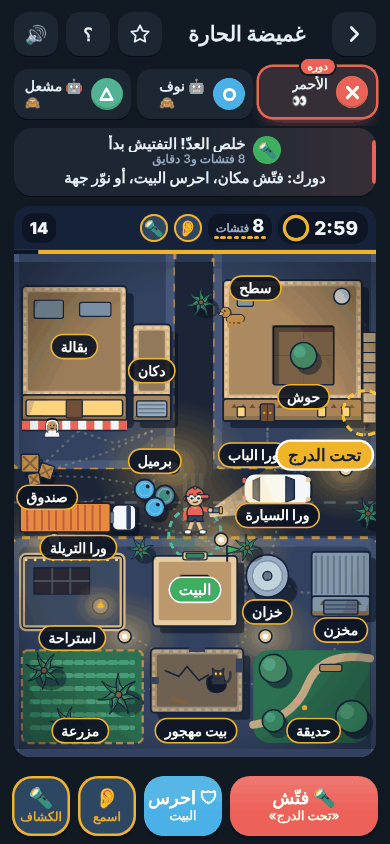
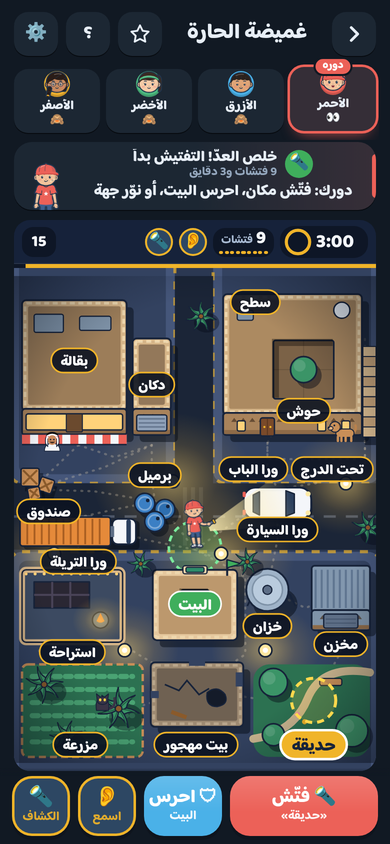
docs(cast): record the new cast trial and its logs
Claude-Session: https://claude.ai/code/session_01QnhkTV5pwWpgkKEhb3iPtA

diff --git a/docs/characters.md b/docs/characters.md
@@ -1,63 +1,82 @@
 # الشخصيات: «عيال الحارة»
 
-«عيال الحارة» ثمان عيال من الحارة، **واحد لكل لون لاعب**: حمود للأحمر، وسعود للأزرق، وهكذا بنفس ترتيب `COLS` في `core.js`. صاحب المشروع اعتمدهم («الشخصيات اعتمدها»)، وصاروا شخصيات التطبيق كله، مو بس ألعاب الحارة.
+«عيال الحارة» ثمان عيال من الحارة، **واحد لكل لون لاعب**: حمود للأحمر، وسعود للأزرق، وهكذا بنفس ترتيب `COLS` في `core.js`. صاحب المشروع اعتمدهم أول مرة («الشخصيات اعتمدها»)، وصاروا شخصيات التطبيق كله، مو بس ألعاب الحارة.
 
-![الشخصيات الثمان بكل الوضعيات، وتحتهم الملابس والوجوه](img/cast.png)
+**2026-11-24: رسمة جديدة للتجربة.** صاحب المشروع وافق يجرّب الرسمة الجديدة في التطبيق: «طبقه خلني اجربه» ([decisions.md](decisions.md)). نفس العيال ونفس الأسماء والألوان والطباع، بس:
 
-*في الصورة: كل صف شخصية بوضعياتها (واقف، يمشي، يطل، يهلل، انمسك، زعلان، يفكر، يعدّ، بالكشاف). وتحت: أمثلة على الملابس (مريول وطاقية طبخ، طقم رياضة وكورة، موزّع ورق، ثوب وقفاز صقّار)، والوجوه الدائرية للصور.*
+- **الجسم:** هيكل عظمي (كتف، كوع، رسغ، ورك، ركبة، كاحل) يحرّك أطراف متصلة مرسومة كخط واحد، والطول تقريبًا 3 رووس.
+- **الوجه:** عيون صغيرة غامقة ونازلة شوي، **والحواجب هي اللي تبيّن المزاج**.
+- **بدون غترة ولا شماغ ولا حجاب** في الشكل الأساسي (طاقية الطبخ والكاب وغيرها تبقى لبس للألعاب):
+  - نورة: ذيل حصان وطوق أخضر.
+  - لولوة: شعر مموّج وبكلة وردة.
+  - سعود: شعر قصير بغرّة.
+  - ناصر: شعر مرفوع (quiff).
+
+![الشخصيات الثمان بالرسمة الجديدة: كل صف شخصية بوضعياتها، وتحتهم الملابس والوجوه](img/cast.png)
+
+*في الصورة: كل صف شخصية بوضعياتها (واقف، يمشي، يطل، يهلل، انمسك، زعلان، يفكر، يعدّ، بالكشاف، يأشّر، وقعدات الطاقية). وتحت: الملابس العشر، والوجوه الدائرية بالأمزجة.*
 
 ## الثمانية
 
 | # | الاسم | اللون | البشرة | الشكل | الطبع |
 |---|---|---|---|---|---|
-| 0 | **حمود** (ولد) | أحمر `#EC6158` | `#F2C29B` | كاب أحمر للأمام، خصلات شعر، حاجب مرفوع بشقاوة | شقي وسريع |
-| 1 | **سعود** (ولد) | أزرق `#4AB1E8` | `#E0A577` | غترة بيضاء على الراس والكتوف، عيون نص مسكّرة هادية | هادي ويفكر |
-| 2 | **نورة** (بنت) | أخضر `#4CB97F` | `#F5CBA7` | حجاب أخضر حول وجه مدوّر، رموش | ذكية وتلاحظ كل شي |
-| 3 | **سارة** (بنت) | أصفر `#EDB02F` | `#C98A5E` | شعر غامق بضفيرة على جنب، نظارة مدوّرة، ربطة شعر صفراء | تحب الألغاز |
-| 4 | **ريم** (بنت) | بنفسجي `#9C7BD6` | `#F2C29B` | ذيلين شعر بفيونكات بنفسجية، نمش | نشيطة وما تهدى |
-| 5 | **بدر** (ولد) | برتقالي `#F2874B` | `#D99A6C` | طاقية بيضاء محبوكة، وجه مليان ضحوك | ضحوك |
-| 6 | **لولوة** (بنت) | وردي `#E57AAE` | `#E8B48C` | حجاب وردي فيه وردة بيضاء صغيرة | لطيفة وشجاعة |
-| 7 | **ناصر** (ولد) | فيروزي `#2FB3AA` | `#B07750` | شماغ أحمر وأبيض، حواجب ثابتة | واثق وهادي |
+| 0 | **حمود** (ولد) | أحمر `#EC6158` | `#F2C29B` | كاب أحمر، لزقة على خده، تيشيرت بنجمة وشورت، حاجب مرفوع بشقاوة | شقي وسريع |
+| 1 | **سعود** (ولد) | أزرق `#4AB1E8` | `#E0A577` | شعر قصير بغرّة، ثوب أبيض وصديري أزرق، عيون نص مسكّرة هادية | هادي ويفكر |
+| 2 | **نورة** (بنت) | أخضر `#4CB97F` | `#F5CBA7` | ذيل حصان وطوق أخضر، بلوزة طويلة وبنطلون، رموش | ذكية وتلاحظ كل شي |
+| 3 | **سارة** (بنت) | أصفر `#EDB02F` | `#C98A5E` | شعر غامق بضفيرة على جنب، نظارة مدوّرة، تنورة | تحب الألغاز |
+| 4 | **ريم** (بنت) | بنفسجي `#9C7BD6` | `#F2C29B` | ذيلين شعر بفيونكات بنفسجية، نمش، أصغر شوي | نشيطة وما تهدى |
+| 5 | **بدر** (ولد) | برتقالي `#F2874B` | `#D99A6C` | طاقية بيضاء محبوكة، وجه مليان ضحوك، غمّازة | ضحوك |
+| 6 | **لولوة** (بنت) | وردي `#E57AAE` | `#E8B48C` | شعر مموّج لكتوفها وبكلة وردة بيضاء، فستان | لطيفة وشجاعة |
+| 7 | **ناصر** (ولد) | فيروزي `#2FB3AA` | `#B07750` | شعر مرفوع بفرق جانبي، ثوب وصديري فيروزي، حواجب ثابتة | واثق وهادي |
 
-4 عيال و4 بنات، ولكل واحد لون بشرة ووجه وطبع خاص فيه. البيانات في `KH.CAST[i]`: `{n, g, c, skin, m, t}` (الاسم، ولد أو بنت، اللون، البشرة، الفم الافتراضي، الطبع).
+4 عيال و4 بنات، ولكل واحد لون بشرة ووجه وطبع خاص فيه. البيانات في `KH.CAST[i]`: `{n, g, c, skin, m, t}` (الاسم، ولد أو بنت، اللون، البشرة، المزاج الافتراضي، الطبع)، ومعها شكل الرسمة (`hair` الشعر، `top` و`low` اللبس، `shoe`...).
 
 ## الرسم
 
-- **المكونات:** الشخصية `<g>` فيها 3 إلى 6 `<use>` (تقريبًا 300 بايت). كل `<use>` قطعة:
-  - جسم بوضعية: القميص بلون `--kc`، والجلد بلون `--ks`؛
-  - طبقة لبس فوقه؛
-  - الراس الخاص فيه (اللبس والشعر والعيون)؛
-  - فم حسب المزاج؛
-  - إكسسوار.
-- **الأسلوب:** حد كحلي `#17233A`، وتعبئة مسطّحة، وظل بيضاوي تحت الرجلين.
-- **القوالب** تنحط بالصفحة مرة وحدة (`KH.ensureDefs()`) وترجع لحالها إذا انمسحت. لذلك 8 لاعبين على الشاشة ما يكلفون شي تقريبًا.
+- **الهيكل:** وحدة الرسم «وحدة الرِّغ»: الأرض عند y = 0، ونص الراس عند 0,-109، والطفل تقريبًا 135 طول. الوضعية زوايا: الكتف والكوع لكل يد، والورك والركبة لكل رجل، وميلان الراس والجسم. بعض الوضعيات تنحسب من مكان الرسغ (حل عكسي للذراع)، عشان تجي اليد على الذقن أو العيون أو الراس بالضبط.
+- **الأطراف:** كل يد ورجل شكل واحد مستدق يمشي على منحنى من الكتف للرسغ (أو من الورك للكاحل). الكم والبنطلون يتلبسون فوقه.
+- **الحد:** كل شي ينرسم مرتين: مرة كحلي بخط عريض (`kr-bo`) ومرة بالألوان. فالأجزاء تذوب في بعض بدون فواصل، والحد الكحلي `#22374F` يحيط الشكل كله.
+- **المقاس في اللعبة:** الرسمة تنعرض بـ0.43 من وحدة الرِّغ، فالطفل الواقف في SVG اللعبة بنفس طوله القديم تقريبًا (الأرض عند 0,0، ونص الراس قرب 0,-47)، ونفس `x` و`y` و`s` اللي تستخدمها الألعاب.
+- **صور مو قطع:** كل «شكل» (طفل بوضعية ومزاج ولبس ولون) ينرسم **مرة وحدة** صورة SVG:
+  - في شاشات التطبيق (`KH.faceImg` و`KH.kidImg`): قاعدة CSS لكل شكل، والعنصر في الصفحة واحد وبدون SVG داخله، مثل قبل.
+  - داخل SVG اللعبة (`KH.kid` و`KH.face` و`KH.sit`): `<image>` واحد للشكل في `<defs>` مخفي، وكل طفل على الشاشة `<use>` واحد له. نفس الـmarkup في كل رسم، فما فيه شي يعيده المحرك.
+- **الأداء** (قياس 2026-11-24، معالج مبطّأ 4×): عدد عناصر الصفحة نزل (الرئيسية 1213 بدل 1453، و«خمّن المهنة» 1669 بدل 2215). كل شكل جديد يكلّف تقريبًا 0.6ms مرة وحدة، وصورته 13 إلى 16 كيلوبايت بدل 5 تقريبًا. وإعادة الرسم ما تغيّرت.
 
 ### الوضعيات (`pose`)
 
 | الوضعية | الوصف | المزاج الافتراضي |
 |---|---|---|
-| `stand` | واقف | فم الشخصية |
-| `walk` | يمشي | فم الشخصية |
-| `peek` | راس ويدين يطلّون من ورا شي | فم الشخصية |
-| `cheer` | يدينه فوق يهلل | `g` (ضحكة) |
+| `stand` | واقف | مزاج الشخصية |
+| `walk` | يمشي (خطوة، ويد قدّام ويد ورا) | مزاج الشخصية |
+| `peek` | راس ويدين يمسكون الحافة | مزاج الشخصية |
+| `cheer` | يدينه فوق يهلل | `g` بعيون مسكّرة من الفرحة |
 | `caught` | يدينه على راسه: انمسك | `o` (مفجوع) |
-| `sad` | زعلان | `sad` |
-| `think` | يد على الذقن | `hm` |
-| `count` | مغمّض بيدينه يعدّ | `s` |
-| `torch` | ماسك كشاف | فم الشخصية |
+| `sad` | زعلان، راسه مايل | `sad` |
+| `think` | يده على ذقنه وعيونه فوق | `hm` |
+| `count` | يدينه على عيونه يعدّ | `s` |
+| `torch` | ماسك كشاف قدّامه | مزاج الشخصية |
+| `wave` | يأشّر بيده | `g` |
+| `hold` | ماسك شي بيده قدّامه | مزاج الشخصية |
 
-وضعيات القعدة (أضافتها «طاق طاق طاقية»، `KH.sit`): `sit` متربّع، و`situp` يد فوق، و`sitcheer` اليدين فوق، و`sitlook` يلتفت ويده على راسه.
+وضعيات القعدة (`KH.sit`، أو `pose` مباشرة): `sit` متربّع ويدينه على ركبه، و`situp` يد فوق، و`sitcheer` اليدين فوق، و`sitlook` يلتفت ويده على راسه.
 
-### المزاج (`mood`، الفم)
+### المزاج (`mood`)
 
-`s` ابتسامة، و`g` ضحكة، و`o` مفجوع، و`sad` زعلان، و`k` شقاوة، و`hm` يفكر.
+الحواجب والعيون والفم مع بعض: `s` و`k` ابتسامة الشخصية (حمود بشقاوة)، و`g` فرحان (عيون مفتوحة وفم مفتوح)، و`o` مفجوع (حواجب فوق وفم مدوّر)، و`sad` زعلان (حواجب مايلة ودمعة)، و`hm` يفكر (حاجب فوق والعيون لجنب). ولما يهلل: عيون مسكّرة من الفرحة.
 
 ### الملابس (`outfit`) والإكسسوارات (`acc`)
 
+اللبس صار **لبس على الجسم** مو ملصق: كل لبس يحدد نوع القطعة اللي فوق والقطعة اللي تحت، وألوانها، وتفاصيل على القميص، وقطع فوق الجسم:
+
 | النوع | المتوفر |
 |---|---|
-| ملابس | `apron` مريول، `sport` طقم رياضة رقم 10، `dealer` صدرية موزّع ورق مع ببيونة، `thobe` ثوب |
-| إكسسوارات | `glove` قفاز صقّار، `ball` كورة، `cards` ورق باليد، `chefhat` طاقية طبخ |
+| ملابس | `apron` مريول، `sport` طقم رياضة رقم 10، `dealer` صديري موزّع ورق مع ببيونة، `thobe` ثوب (للبنات بلوزة بيضاء طويلة)، `host` جاكيت مقدّم، `coat` معطف المحقق، `gi` بدلة كاراتيه بحزام أسود، `lab` معطف مختبر مفتوح، `smock` مريلة رسّام بنقط ألوان، `sailor` ياقة بحّار |
+| باليد (`h`) | `mic`، `pawn`، `crownp`، `dice`، `rod`، `pencil`، `brush`، `book`، `lens`، `sword`، `watch`، `gavel`، `flag`، `balloon`، `bow`، `dart`، `cue`، `club`، `bball`، `bowl`، `oar`، `tile`، `piece`، `trophy`، `letter`، `coin`، `dallah`، `spoon`، `buzzer`، `cards`، `glove` (قفاز صقّار عليه الصقر) |
+| على الراس (`H`) | `chefhat`، `crown`، `fedora`، `bulb`، `helmet` |
+| جنب الرجل (`b`) | `ball` |
+
+- الواقف اللي ماسك شي يرفع يده قدّامه (`hold`). والمفكّر يمسكه باليد الثانية.
+- الإكسسوار الواحد ممكن يكون فيه أكثر من مكان، مثل طاقية الطبّاخ والملعقة (`{H, h}`).
 
 ### شخصيات ثانية (`KH.sprite`)
 
@@ -68,13 +87,15 @@
 - `dog`: الكلب.
 - `grocer`: أبو سعد صاحب البقالة.
 
+(هذي ما تغيّرت مع الرسمة الجديدة.)
+
 ### الطاقية (`KH.cap`)
 
 `cap` بيضاء محبوكة، و`gold` ذهبية، و`fake` خرقة مرقّعة.
 
 ## الاستخدام في الألعاب (API)
 
-الكود كله في `public/js/kit-hara.js` تحت متغير واحد `KH`، وتنسيقه في `public/css/kit-hara.css`.
+الكود كله في `public/js/kit-hara.js` تحت متغير واحد `KH`، وتنسيقه في `public/css/kit-hara.css`. **الـAPI ما تغيّر مع الرسمة الجديدة.**
 
 ```js
 // شخصية داخل <svg> اللعبة: who = رقم اللون (0..7)، وفي اللعبة غالبًا d.pl[s]
@@ -93,14 +114,22 @@ KH.cap(x, y, 'gold', 1);
 // فقاعة كلام ونجمة «لقيتك!»
 KH.say(x, y, 'أربعة…', {fs: 13});
 KH.burst(x, y, 'لقيتك!');
+
+// لبس وإكسسوار للعبة (مفاتيح بإسم اللعبة). KH.cloth فيه أدوات رسم القماش على الجسم
+const {cl, ln, mir} = KH.cloth;
+KH.extend({
+  outfit: {'job-chef': {k: {top: 'long'}, v: '--sl:#FAFBFD', over: cl('M-12.6 -79L12.6 -79L14 -31Q0 -27.6 -14 -31Z', '#fff')}},
+  acc: {'job-chefH': {H: '<path …/>', h: '<path …/>'}}
+});
 ```
 
 | الدالة | وش ترجع |
 |---|---|
-| `KH.kid(o)` | `<g>` للشخصية. `o`: `who` أو `seat` أو `c` (لون)، `pose`، `mood`، `outfit`، `acc`، `s` (الحجم)، `flip`، `x`، `y` |
-| `KH.face(o)` | `<svg>` دائري صغير. `o`: `who`، `size`، `ring` (دائرة بلون اللاعب)، `bg`، `mood` |
-| `KH.sit(o)` | شخصية قاعدة متربّعة (الراس عند 0,-33) |
+| `KH.kid(o)` | `<use>` للشخصية. `o`: `who` أو `seat` أو `c` (لون)، `pose`، `mood`، `outfit`، `acc`، `hat`، `s` (الحجم)، `flip`، `x`، `y` |
+| `KH.face(o)` | `<svg>` دائري صغير. `o`: `who`، `size`، `ring` (دائرة بلون اللاعب، ويبين فيها الكتوف)، `bg`، `mood`، `hat` |
+| `KH.sit(o)` | شخصية قاعدة متربّعة (الراس قرب 0,-32) |
 | `KH.sprite(pose,x,y,o)` | الشخصيات الثانية، أو أي وضعية من وضعيات العيال |
+| `KH.extend({outfit, acc})` | لبس وإكسسوارات للعبة. اللبس: `k` (نوع `top`: `tee` أو `long` أو `vest`، و`low`: `shorts` أو `pants` أو `skirt` أو `thobe`)، و`v` (ألوان: `--kc` القميص، `--kd` ظله، `--sl` الكم، `--lo` البنطلون أو الثوب)، و`deco` (على القميص)، و`over` (فوق الجسم). الإكسسوار: `h` باليد، و`H` على الراس، و`o` على الصدر، و`b` جنب الجسم. كلها بوحدة الرِّغ إلا `h` و`H` و`b` بمقاس الطفل القديم |
 | `KH.cap(x,y,kind,s)` | الطاقية |
 | `KH.say` و`KH.burst` و`KH.beam` | فقاعة كلام، ونجمة، وضوء الكشاف |
 | `KH.walk(el,pts,o)` | يمشّي عنصر على نقاط بـ `transform` بس: 150 إلى 250ms للمقطع، و1.2 ثانية كحد أقصى، و450ms في الوضع الخفيف، وما فيه مشي مع «تقليل الحركة». `o.step()` ينادى عند كل نقطة (صوت خطوات) |
@@ -124,7 +153,8 @@ KH.burst(x, y, 'لقيتك!');
 | المكان | الحالة |
 |---|---|
 | «غميضة الحارة» (`n-hide.js`) | كل لاعب شخصيته: يمشي على الممرات، ويطل من مخباه، والغمّاض يعدّ ويمشي بالكشاف. وفيها القطو والكلب وأبو سعد والأم |
-| «طاق طاق طاقية» (`n-taqiya.js`) | العيال قاعدين بدائرة في الحوش |
-| باقي التطبيق (شريط اللاعبين، الغرفة، النتائج، باقي الألعاب) | قيد التعميم (انظر [roadmap.md](roadmap.md)) |
+| «طاق طاق طاقية» (`n-taqiya.js`) | العيال قاعدين بدائرة في الحوش، واللي يلف يمشي حولهم |
+| «خمّن المهنة» (`n-guess.js`) | 33 مهنة: كل طفل بلبس شغله وأدواته (`job-*` بـ`KH.extend`) |
+| شاشات التطبيق (`core.js` و`cast-themes.js`) | الرئيسية (أربعة يطلّون فوق الأزرار)، وأيقونة كل قسم في قائمة الألعاب، وصور الغرفة واختيار الصورة، وشريط اللاعبين، وبطاقة الدور، و«دورك!»، وغطاء تمرير الجوال، والنتيجة والمنصة، والإحصائيات. كل لعبة تلبّسهم لبسها |
 
-![الغمّاض يختار وين يفتّش، بالداكن](img/hide-seeker-select-dark.png)
+![«غميضة الحارة» بالرسمة الجديدة، بالداكن](img/hide-seeker-select-dark.png)

diff --git a/docs/games/hide.md b/docs/games/hide.md
@@ -105,6 +105,7 @@
 
 | التاريخ | وش تغيّر | الكومت |
 |---|---|---|
+| 2026-11-24 | تجربة الرسمة الجديدة لـ«عيال الحارة» (بموافقة صاحب المشروع: «طبقه خلني اجربه»): جسم على هيكل عظمي بأطراف متصلة، وعيون صغيرة والحواجب تبيّن المزاج، وبدون غترة ولا شماغ ولا حجاب، ولبس المهن انرسم من جديد على الجسم | `486b5fd` |
 | 2026-11-15 | أسماء تنسيق خاصة بكل مجموعة ألعاب، وفحص يمنع التداخل | `99b50f8` |
 | 2026-11-15 | الشات والتفاعلات صارت بشريط ثابت تحت الشاشة ما يدخل على اللعبة، وتنبيه الرسائل الجديدة فوق زر الشات مباشرة، و«انسحب من اللعبة» انتقل لإعدادات اللعبة (⚙ بشريطها العلوي) | `f2e5506` |
 | 2026-11-14 | شارة أعرض لأبو سعد | `3e0925a` |
@@ -117,6 +118,7 @@
 
 ### من المحادثات (الأحدث أول)
 
+- **2026-11-24:** صاحب المشروع وافق يجرّب الرسمة الجديدة لـ«عيال الحارة»: «طبقه خلني اجربه». الخريطة والقوانين ما تغيّرت. الغمّاض صار يغطي عيونه بيدينه وهو يعدّ، ويمسك كشاف صغير قدّامه وهو يدوّر، والمتخبّي يطل براسه ويدينه ماسكة الحافة، واللي انمسك يحط يدينه على راسه بحواجب مرفوعة، واللي وصل البيت يهلل بعيون مسكّرة. التفاصيل في [characters.md](../characters.md).
 - **2026-11-15:** صاحب المشروع أرسل صور من اللعبة وقال: «حسن مكان الشات مكانها غير صحيح وداخل على اللعبه خلي مكانها ثابت ولا يدخل على اللعبه . والرسائل تظهر فوقه مباشره. وانسحب تكون في مكان إعدادات اللعبه مب وسط الشاشه». انصلحت لكل الألعاب (الكومت `f2e5506`، انظر القرارات).
 - **2026-11-14:** في فرز الأقسام انحسبت «ما تنفع أبدًا» على جوال واحد، وانشالت من «على نفس الجهاز».
 - **2026-11-14:** بعد ما شاف صور النسخة الثانية قال: «ارفعها»، وانرفعت على الموقع. وبعدها مباشرة: «و الشخصيات اعتمدها».
@@ -190,5 +192,5 @@
 
 - «لكل من ما استخدم ركضته فرصة» وقت نداء الأم ما انضافت: الركضة مرة وحدة أصلًا، والنداء بس يقصّر الخطوات.
 - على جوال 360×640 الخريطة تحتاج تمرير تحت شريط الأزرار الثابت (الأسماء تبقى 13 بكسل أو أكثر بدل ما تصغر).
-- وضعية «زعلان» أغلبها في الفم، مو في الجسم كله.
+- وضعية «زعلان» صارت في الجسم والوجه مع الرسمة الجديدة (الراس مايل، والحواجب، والدمعة). تنتظر رأي صاحب المشروع بعد التجربة.
 - `kit-hara.js` ينحمّل مع الألعاب بعد أول شاشة. إذا بتستخدم الشخصيات في شريط اللاعبين أو الغرفة، لازم ينتقل لأول السكربتات ([characters.md](../characters.md)).

diff --git a/docs/games/gs_job.md b/docs/games/gs_job.md
@@ -76,11 +76,13 @@
 
 | التاريخ | وش تغيّر | الكومت |
 |---|---|---|
+| 2026-11-24 | تجربة الرسمة الجديدة لـ«عيال الحارة» (بموافقة صاحب المشروع: «طبقه خلني اجربه»): جسم على هيكل عظمي بأطراف متصلة، وعيون صغيرة والحواجب تبيّن المزاج، وبدون غترة ولا شماغ ولا حجاب، ولبس المهن انرسم من جديد على الجسم | `486b5fd` |
 | 2026-11-15 | عائلة التخمين: عيال المهن صاروا أهدى، وبوت «الكل ضد واحد» يسأل بعدين يخمّن، وتصليحات في مشهد الجواب والأسماء | `9f505cd` |
 | 2026-11-15 | عائلة التخمين: محرك واحد لست ألعاب (الشخص، الحيوان، الدولة، المعلم، الأكلة، المهنة)، بتبويبات أسئلة ومشهد للجواب وشريط تاريخ، و«كل واحد سره» افتراضي | `c38c006` |
 <!-- auto:end history -->
 
 ### من المحادثات
+- **2026-11-24:** صاحب المشروع وافق يجرّب الرسمة الجديدة لـ«عيال الحارة»: «طبقه خلني اجربه». لبس المهن الـ33 انرسم من جديد على الجسم الجديد: المعاطف والمرايل والصدريات والبدل صارت قماش على الجسم (نوع القطعة ولونها وتفاصيلها)، والخوذ والكابات على الراس، والأدوات باليد، والكاميرا واللابتوب والسماعة على الصدر. الأسئلة وحقائق الصور ما تغيّرت (الألوان والخوذ والقبعات نفسها). التفاصيل في [characters.md](../characters.md).
 - **2026-11-15:** صاحب المشروع طلبها لعبة منفصلة: «وخمن الأشخاص طورها وسوي العاب منفصله خمن الأشخاص - خمن الحيوان - خمن الدوله - خمن المعلم - خمن الاكله - خمن المهنه -واقترح». وانرفعت مع باقي العائلة. التفاصيل في [سجل خمّن الشخص](guess.md).
 
 ## القرارات
@@ -97,4 +99,4 @@
 ## ملاحظات مفتوحة
 
 - **«الكل ضد واحد» ضد البوت ضعيف** على مستوى العائلة كلها (39% للصعب والحظ 33%). التفاصيل في [سجل خمّن الشخص](guess.md).
-- **ينتظر:** اعتماد شخصيات المهن الجديدة من صاحب المشروع (ورقة الشخصيات في [سجل خمّن الشخص](guess.md)).
+- **ينتظر:** رأي صاحب المشروع في المهن بالرسمة الجديدة بعد التجربة (2026-11-24).

diff --git a/docs/games/README.md b/docs/games/README.md
@@ -154,9 +154,9 @@
 | [ربط الكلمات](p_link.md) | `p_link` | 2–8 | ✅ | ✅ | 1 | — |
 | [سؤال وجواب](p_qa.md) | `p_qa` | 3–8 | ✅ | ❌ | 1 | — |
 | [صناديق الحظ](luck.md) | `luck` | 2–8 | ✅ | ✅ | 3 | — |
-| [طاق طاق طاقية](taqiya.md) 📖 | `taqiya` | 3–8 | ❌ | ✅ | 7 | 22 |
+| [طاق طاق طاقية](taqiya.md) 📖 | `taqiya` | 3–8 | ❌ | ✅ | 8 | 22 |
 | [عشرين سؤال](p_20q.md) | `p_20q` | 2–8 | ✅ | ✅ | 2 | — |
-| [غميضة الحارة](hide.md) 📖 | `hide` | 3–8 | ❌ | ✅ | 8 | 23 |
+| [غميضة الحارة](hide.md) 📖 | `hide` | 3–8 | ❌ | ✅ | 9 | 23 |
 | [قصة متسلسلة](p_story.md) | `p_story` | 3–8 | ✅ | ❌ | 1 | — |
 | [لو خيروك](major.md) | `major` | 2–8 | ❌ | ❌ | 3 | 1 |
 | [مين الأكثر](p_most.md) | `p_most` | 3–8 | ❌ | ❌ | 1 | 1 |
@@ -233,13 +233,13 @@
 | [القناني](g_kayles.md) | `g_kayles` | 2–8 | ✅ | ✅ | 1 | 6 |
 | [الكنز المدفون](treasure.md) | `treasure` | 2–8 | ✅ | ✅ | 5 | — |
 | [المثلثات](g_sim.md) | `g_sim` | 2–8 | ✅ | ✅ | 2 | 6 |
-| [خمّن الأكلة](gs_food.md) | `gs_food` | 2–8 | ✅ | ✅ | 2 | — |
-| [خمّن الحيوان](gs_animal.md) | `gs_animal` | 2–8 | ✅ | ✅ | 2 | — |
-| [خمّن الدولة](gs_country.md) | `gs_country` | 2–8 | ✅ | ✅ | 2 | — |
+| [خمّن الأكلة](gs_food.md) | `gs_food` | 2–8 | ✅ | ✅ | 3 | — |
+| [خمّن الحيوان](gs_animal.md) | `gs_animal` | 2–8 | ✅ | ✅ | 3 | — |
+| [خمّن الدولة](gs_country.md) | `gs_country` | 2–8 | ✅ | ✅ | 3 | — |
 | [خمّن الرقم](num.md) | `num` | 2–8 | ✅ | ✅ | 5 | — |
-| [خمّن الشخص](guess.md) 📖 | `guess` | 2–8 | ✅ | ✅ | 10 | 22 |
-| [خمّن المعلم](gs_land.md) | `gs_land` | 2–8 | ✅ | ✅ | 2 | — |
-| [خمّن المهنة](gs_job.md) | `gs_job` | 2–8 | ✅ | ✅ | 2 | — |
+| [خمّن الشخص](guess.md) 📖 | `guess` | 2–8 | ✅ | ✅ | 11 | 22 |
+| [خمّن المعلم](gs_land.md) | `gs_land` | 2–8 | ✅ | ✅ | 3 | — |
+| [خمّن المهنة](gs_job.md) | `gs_job` | 2–8 | ✅ | ✅ | 3 | — |
 | [صندوق الألوان](g_chomp.md) | `g_chomp` | 2–8 | ✅ | ✅ | 1 | 6 |
 | [فك القنبلة](wires.md) | `wires` | 2–8 | ✅ | ✅ | 9 | — |
 | [كسر الشفرة](mm.md) | `mm` | 2–8 | ✅ | ✅ | 5 | — |

diff --git a/docs/games/taqiya.md b/docs/games/taqiya.md
@@ -96,6 +96,7 @@
 
 | التاريخ | وش تغيّر | الكومت |
 |---|---|---|
+| 2026-11-24 | تجربة الرسمة الجديدة لـ«عيال الحارة» (بموافقة صاحب المشروع: «طبقه خلني اجربه»): جسم على هيكل عظمي بأطراف متصلة، وعيون صغيرة والحواجب تبيّن المزاج، وبدون غترة ولا شماغ ولا حجاب، ولبس المهن انرسم من جديد على الجسم | `486b5fd` |
 | 2026-11-15 | أسماء تنسيق خاصة بكل مجموعة ألعاب، وفحص يمنع التداخل | `99b50f8` |
 | 2026-11-15 | طاقية: الماشي الجاي يطلع جنب مكانه مع نقاطه في النتيجة | `be196a8` |
 | 2026-11-15 | طاقية: مكان لتسجيل الأهزوجة، وضبط البوتات | `fe8c0ee` |
@@ -107,6 +108,7 @@
 
 ### من المحادثات (الأحدث أول)
 
+- **2026-11-24:** صاحب المشروع وافق يجرّب الرسمة الجديدة لـ«عيال الحارة»: «طبقه خلني اجربه». القعدة صارت على الهيكل الجديد: متربّعين ويدينهم على ركبهم (`sit`)، ويد فوق (`situp`)، واليدين فوق (`sitcheer`)، ويلتفت ويده على راسه (`sitlook`). اللي يلف يمشي بخطوة حقيقية. والقوانين والمشهد ما تغيّرت. التفاصيل في [characters.md](../characters.md).
 - **2026-11-15:** على صور النسخة الثانية قال صاحب المشروع: «طاقيه: مبدئيا كويس اجربها واعطيك ملاحظاتي.»، وبدأ بناء النسخة الثانية.
 - **2026-11-15:** انرسمت 3 صور للنسخة الثانية (من عيونك، اللفّاف بإصبعه، المطاردة بالإصبع).
 - **2026-11-15:** جاوب على الأسئلة: التفاعل كله (تشوف من مكانك، اللفّاف يمشي بإصبعه، تلتفت بحركة الجوال، المطاردة بلف الإصبع)، وفي التصميم «أصوات حقيقية» وكتب: «أكثر شسء يهم الحبكة والتفاعل».

diff --git a/docs/decisions.md b/docs/decisions.md
@@ -6,6 +6,17 @@
 
 ---
 
+## 2026-11-24
+
+### 🛠 تجربة الرسمة الجديدة لـ«عيال الحارة» في التطبيق
+- **صاحب المشروع:** وافق على تجربة الرسمة الجديدة للشخصيات الثمان: «طبقه خلني اجربه».
+- **وش تغيّر:** نفس العيال والأسماء والألوان والطباع، بجسم على هيكل عظمي بأطراف متصلة (تقريبًا 3 رووس)، وعيون صغيرة غامقة والحواجب تبيّن المزاج. وبدون غترة ولا شماغ ولا حجاب في الشكل الأساسي: نورة بذيل حصان وطوق أخضر، ولولوة بشعر مموّج وبكلة وردة، وسعود بشعر قصير بغرّة، وناصر بشعر مرفوع.
+- **وش ما تغيّر:** قوانين الألعاب، وطريقة استدعاء الألعاب لـ`KH`، وأماكن الشخصيات في الشاشات. لبس الألعاب (الطبّاخ، المحقق، الرياضة، مهن «خمّن المهنة» الـ33، ولبس `cast-themes.js`) انرسم من جديد على الجسم الجديد، والطواقي والكابات تبقى لبس للعبة.
+- **الطريقة:** طلب دمج (pull request) يجرّبه صاحب المشروع قبل الدمج. التفاصيل في [characters.md](characters.md).
+- **الحالة:** تجربة. إذا ما عجبته يرجع للرسمة القديمة بإلغاء الطلب أو التراجع عنه.
+
+---
+
 ## 2026-11-18
 
 ### ✅ المستودع يبقى عاما كما هو

diff --git a/docs/games/guess.md b/docs/games/guess.md
@@ -103,6 +103,7 @@
 
 | التاريخ | وش تغيّر | الكومت |
 |---|---|---|
+| 2026-11-24 | تجربة الرسمة الجديدة لـ«عيال الحارة» (بموافقة صاحب المشروع: «طبقه خلني اجربه»): جسم على هيكل عظمي بأطراف متصلة، وعيون صغيرة والحواجب تبيّن المزاج، وبدون غترة ولا شماغ ولا حجاب، ولبس المهن انرسم من جديد على الجسم | `486b5fd` |
 | 2026-11-15 | عائلة التخمين: عيال المهن صاروا أهدى، وبوت «الكل ضد واحد» يسأل بعدين يخمّن، وتصليحات في مشهد الجواب والأسماء | `9f505cd` |
 | 2026-11-15 | صارت «خمّن الشخص» وحدة من عائلة ست ألعاب على محرك واحد (`n-guess.js`): الستين وجه القديمة نفسها، و8 رجال جدد بالغترة، وتبويبات أسئلة ومشهد «إيه!/لا!» وشريط تاريخ، وانحلت البطاقات العملاقة نهائيًا بأسماء تنسيق خاصة (`gsx-`) | `c38c006` |
 | 2026-11-14 | الوجوه صارت أخف (صورة وحدة بدل 25 عنصر)، والشماغ صار يطلع بنقشته الحمرا | `5276149` |

diff --git a/docs/games/gs_animal.md b/docs/games/gs_animal.md
@@ -76,6 +76,7 @@
 
 | التاريخ | وش تغيّر | الكومت |
 |---|---|---|
+| 2026-11-24 | تجربة الرسمة الجديدة لـ«عيال الحارة» (بموافقة صاحب المشروع: «طبقه خلني اجربه»): جسم على هيكل عظمي بأطراف متصلة، وعيون صغيرة والحواجب تبيّن المزاج، وبدون غترة ولا شماغ ولا حجاب، ولبس المهن انرسم من جديد على الجسم | `486b5fd` |
 | 2026-11-15 | عائلة التخمين: عيال المهن صاروا أهدى، وبوت «الكل ضد واحد» يسأل بعدين يخمّن، وتصليحات في مشهد الجواب والأسماء | `9f505cd` |
 | 2026-11-15 | عائلة التخمين: محرك واحد لست ألعاب (الشخص، الحيوان، الدولة، المعلم، الأكلة، المهنة)، بتبويبات أسئلة ومشهد للجواب وشريط تاريخ، و«كل واحد سره» افتراضي | `c38c006` |
 <!-- auto:end history -->

diff --git a/docs/games/gs_country.md b/docs/games/gs_country.md
@@ -76,6 +76,7 @@
 
 | التاريخ | وش تغيّر | الكومت |
 |---|---|---|
+| 2026-11-24 | تجربة الرسمة الجديدة لـ«عيال الحارة» (بموافقة صاحب المشروع: «طبقه خلني اجربه»): جسم على هيكل عظمي بأطراف متصلة، وعيون صغيرة والحواجب تبيّن المزاج، وبدون غترة ولا شماغ ولا حجاب، ولبس المهن انرسم من جديد على الجسم | `486b5fd` |
 | 2026-11-15 | عائلة التخمين: عيال المهن صاروا أهدى، وبوت «الكل ضد واحد» يسأل بعدين يخمّن، وتصليحات في مشهد الجواب والأسماء | `9f505cd` |
 | 2026-11-15 | عائلة التخمين: محرك واحد لست ألعاب (الشخص، الحيوان، الدولة، المعلم، الأكلة، المهنة)، بتبويبات أسئلة ومشهد للجواب وشريط تاريخ، و«كل واحد سره» افتراضي | `c38c006` |
 <!-- auto:end history -->

diff --git a/docs/games/gs_food.md b/docs/games/gs_food.md
@@ -76,6 +76,7 @@
 
 | التاريخ | وش تغيّر | الكومت |
 |---|---|---|
+| 2026-11-24 | تجربة الرسمة الجديدة لـ«عيال الحارة» (بموافقة صاحب المشروع: «طبقه خلني اجربه»): جسم على هيكل عظمي بأطراف متصلة، وعيون صغيرة والحواجب تبيّن المزاج، وبدون غترة ولا شماغ ولا حجاب، ولبس المهن انرسم من جديد على الجسم | `486b5fd` |
 | 2026-11-15 | عائلة التخمين: عيال المهن صاروا أهدى، وبوت «الكل ضد واحد» يسأل بعدين يخمّن، وتصليحات في مشهد الجواب والأسماء | `9f505cd` |
 | 2026-11-15 | عائلة التخمين: محرك واحد لست ألعاب (الشخص، الحيوان، الدولة، المعلم، الأكلة، المهنة)، بتبويبات أسئلة ومشهد للجواب وشريط تاريخ، و«كل واحد سره» افتراضي | `c38c006` |
 <!-- auto:end history -->

diff --git a/docs/games/gs_land.md b/docs/games/gs_land.md
@@ -75,6 +75,7 @@
 
 | التاريخ | وش تغيّر | الكومت |
 |---|---|---|
+| 2026-11-24 | تجربة الرسمة الجديدة لـ«عيال الحارة» (بموافقة صاحب المشروع: «طبقه خلني اجربه»): جسم على هيكل عظمي بأطراف متصلة، وعيون صغيرة والحواجب تبيّن المزاج، وبدون غترة ولا شماغ ولا حجاب، ولبس المهن انرسم من جديد على الجسم | `486b5fd` |
 | 2026-11-15 | عائلة التخمين: عيال المهن صاروا أهدى، وبوت «الكل ضد واحد» يسأل بعدين يخمّن، وتصليحات في مشهد الجواب والأسماء | `9f505cd` |
 | 2026-11-15 | عائلة التخمين: محرك واحد لست ألعاب (الشخص، الحيوان، الدولة، المعلم، الأكلة، المهنة)، بتبويبات أسئلة ومشهد للجواب وشريط تاريخ، و«كل واحد سره» افتراضي | `c38c006` |
 <!-- auto:end history -->
